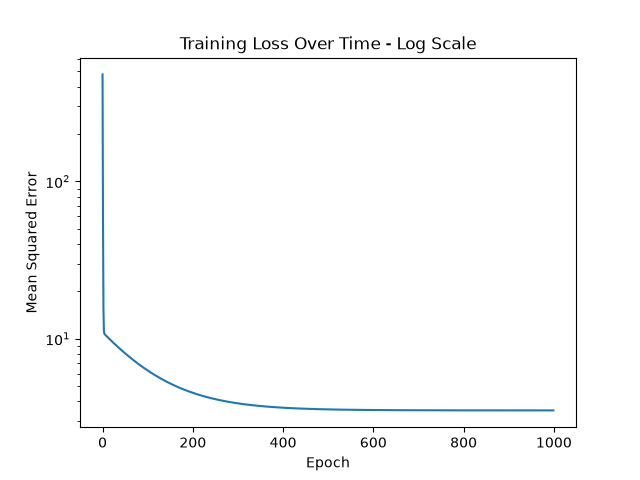
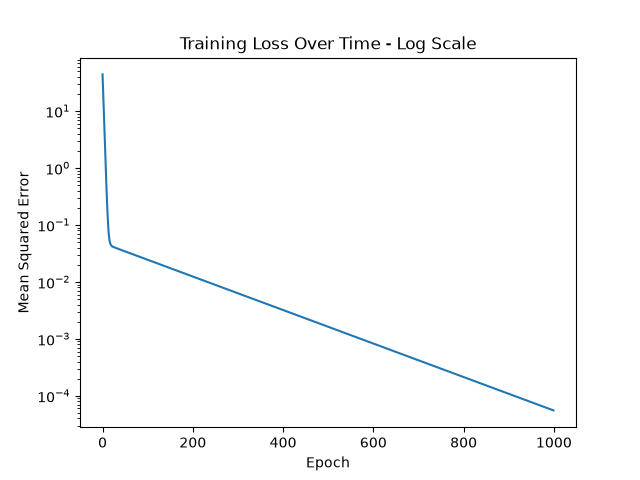
upadated some documentation

diff --git a/00-python-numpy-foundations/notes.md b/00-python-numpy-foundations/notes.md
@@ -1,16 +1,58 @@
-## Noisy linear Regression Result
+# Stage 00 Notes
 
-For the noisy dataset, the target was generated from:
+## Why the model improves
 
-y=3x + 5 + noisy
+The model predicts `y_pred = X @ w + b` and measures error with mean squared error:
+
+```text
+loss = mean((y_pred - y)^2)
+```
+
+Each step computes the gradient of the loss with respect to `w` and `b` — the direction in which the loss increases fastest — and then takes a small step in the *opposite* direction:
+
+```text
+w = w - learning_rate * dw
+b = b - learning_rate * db
+```
+
+Because the gradient points uphill, subtracting it moves the parameters downhill on the loss surface. Repeating this many times slides `w` and `b` toward the values that minimize the average squared error, which is why the loss curve falls steadily over the epochs.
+
+## Clean linear regression result
+
+The clean dataset was generated from `y = 2x` with no noise.
 
 The model learned approximately:
 
-w = 2.84%
-b = 5.96%
+```text
+w = 1.995
+b = 0.017
+```
 
-The learned parameters are close to the original hidden relationship, but not exact because the data contains random noise.
+Predictions line up almost exactly with the targets, and the unseen point `x = 6` is predicted as `11.99` (true value `12`). Since the data is perfectly linear, the loss can be driven very close to zero — by epoch 900 it has dropped from ~30 to ~0.0001.
 
-Unlike the clean dataset, the loss does not reach zero. This is expected because no straight line can perfectly fit all noisy points. Instead, gradient descent finds the line that minimizes the average squared error.
+## Noisy linear regression result
 
-This experiment shows that real machine learning models usually optimize for the best approximation, not a perfect answer.
+The noisy dataset was generated from:
+
+```text
+y = 3x + 5 + noise
+```
+
+The model learned approximately:
+
+```text
+w = 2.84
+b = 5.96
+```
+
+The learned parameters are close to the hidden relationship (`w = 3`, `b = 5`) but not exact, because the data contains random noise (and the exact values shift between runs since the noise isn't seeded).
+
+Unlike the clean dataset, the loss does **not** reach zero. This is expected: no straight line can pass through every noisy point. Instead, gradient descent finds the line that minimizes the average squared error.
+
+This is the key takeaway — real machine learning models usually optimize for the best approximation, not a perfect answer.
+
+## Things to remember
+
+- `loss` decreasing is the signal that training is working.
+- A learning rate that's too large makes the loss diverge instead of converge.
+- Matrix form (`X @ w`) scales to many features without changing the logic — the same loop works whether `w` is a scalar or a vector.

diff --git a/00-python-numpy-foundations/README.md b/00-python-numpy-foundations/README.md
@@ -1,0 +1,46 @@
+# Stage 00 — Python & NumPy Foundations
+
+The starting point of the lab: implementing linear regression and gradient descent from scratch in NumPy. The goal isn't the model itself (a straight line is trivial) — it's to build the mental model for everything that follows: a forward pass, a loss, gradients, and a parameter update repeated in a loop.
+
+## What's here
+
+| File | Description |
+|---|---|
+| `linear_regression_numpy.py` | Linear regression on clean data (`y = 2x`), trained with gradient descent. Prints parameters/predictions and saves the loss curve. |
+| `linear_regression_noisy.py` | Same model on noisy data (`y = 3x + 5 + noise`) to show that gradient descent finds the best approximation, not a perfect fit. |
+| `notes.md` | Results and explanations of why the model learns. |
+| `results/` | Saved plots (loss curve, fitted line). |
+
+## The idea
+
+Each model is trained with the same loop:
+
+```text
+y_pred = X @ w + b          # forward pass
+loss   = mean((y_pred - y)^2)   # mean squared error
+dw, db = gradient of loss        # backward pass
+w, b   = w - lr*dw, b - lr*db    # gradient descent update
+```
+
+Repeating this drives the loss down and pulls `w`, `b` toward the relationship hidden in the data.
+
+## Running it
+
+From the repository root, with the virtual environment active:
+
+```bash
+python 00-python-numpy-foundations/linear_regression_numpy.py
+python 00-python-numpy-foundations/linear_regression_noisy.py
+```
+
+Plots are written to `00-python-numpy-foundations/results/`.
+
+## Results
+
+On the clean dataset (`y = 2x`), the model converges to `w ≈ 1.995`, `b ≈ 0.017` and predicts `x = 6 → 11.99` (true value 12). The loss curve below shows the error dropping by several orders of magnitude over training:
+
+![Loss curve](results/linear_regression_loss_log.png)
+
+On the noisy dataset, the fitted line recovers the underlying trend without passing through every point:
+
+![Fitted line on noisy data](results/noisy_regression_line.png)